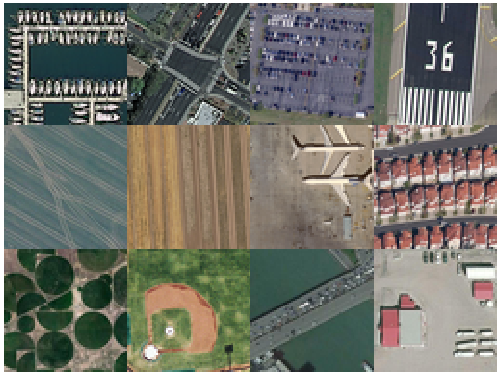
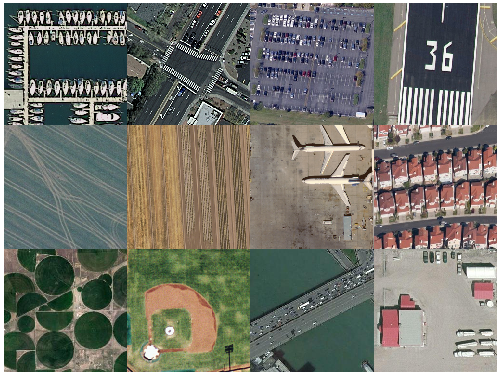
adding mosaic dataset

diff --git a/create_matrix.py b/create_matrix.py
@@ -4,21 +4,21 @@ from os import listdir
 from os.path import isdir, join
 import matplotlib.pyplot as plt
 
-#directories = [f for f in listdir(".") if isdir(join(".", f))]
+#directories = [f for f in listdir("images") if isdir(join("images", f))]
 directories = [['harbor', 'intersection', 'parking', 'road'], ['agricultural2', 'agricultural', 'airplane', 'residential'], ['circular_farmland', 'baseball', 'bridge', 'industry']]
 
 
-mosaic = np.zeros((12,64,64,3), dtype=np.uint8)
+mosaic = np.zeros((12,256,256,3), dtype=np.uint8)
 i=0
 for rowimage in directories:
 	for dirim in rowimage:
-		for image in listdir(dirim):
-			imagepath = dirim + "/" + image
+		for image in listdir("images" + "/" + dirim):
+			imagepath = "images" + "/" + dirim + "/" + image
 			if "hr" in imagepath:
 				try:
 					mosaic[i,:,:,:] = np.array(Image.open(imagepath).convert('RGB'))
 				except: #images of 96x96
-					mosaic[i,:,:,:] = np.array(Image.open(imagepath).convert('RGB').resize((64,64), Image.ANTIALIAS))
+					mosaic[i,:,:,:] = np.array(Image.open(imagepath).convert('RGB').resize((256,256), Image.ANTIALIAS))
 				i += 1
 
 (np.hstack((mosaic[8,:,:,:], mosaic[9,:,:,:], mosaic[10,:,:,:], mosaic[11,:,:,:])))
